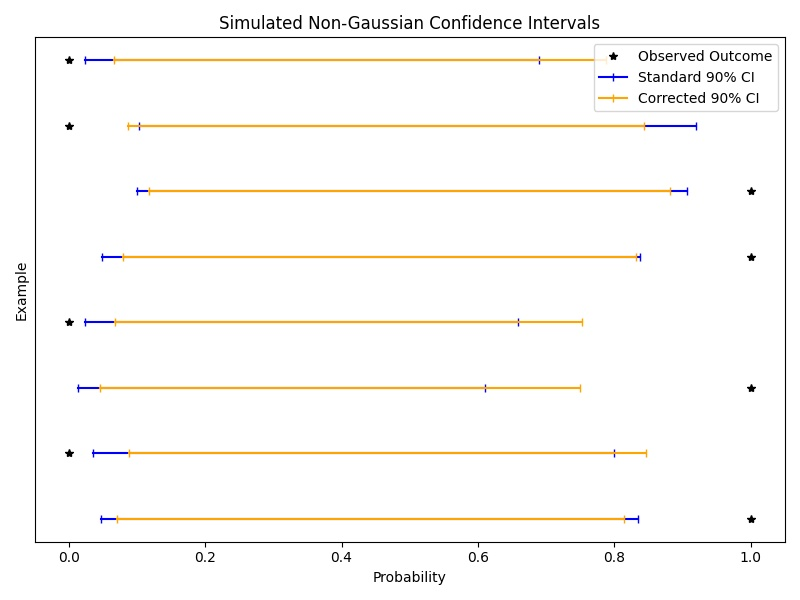
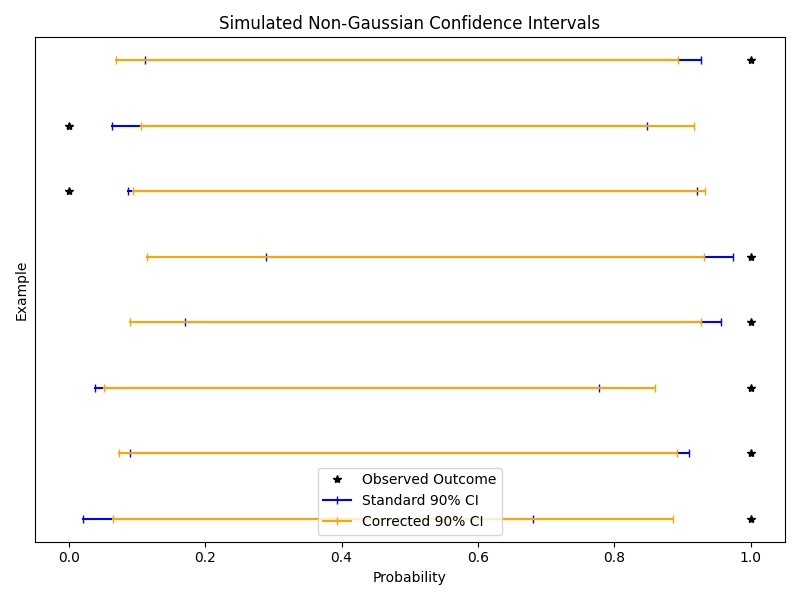
latent variables done

diff --git a/run_experiments.py b/run_experiments.py
@@ -1,7 +1,7 @@
 import torch
 import numpy as np
 import matplotlib.pyplot as plt
-from helpers.simulation import simulate_gaussian, normalizing_flow
+from helpers.simulation import simulate_gaussian, normalizing_flow, simulate_latent_gaussian
 from helpers.plotting import plot_p_vals, plot_conf_ints, test_normalizing_flow
 from helpers.models_test import test_baseline, test_sloe
 import warnings
@@ -18,36 +18,51 @@ gamma = np.sqrt(5)
 
 ci = 90
 
-# TEST 1: Simulated Gaussian data
-print("TEST 1: Simulated Gaussian data")
+# # TEST 1: Simulated Gaussian data
+# print("TEST 1: Simulated Gaussian data")
 
-# Simulate Gaussian data
-X_train, X_test, y_train, y_test = simulate_gaussian(ratio, n, p, gamma)
-#y_train = torch.round(torch.rand(y_train.shape[0]))
-#y_test = torch.round(torch.rand(y_test.shape[0]))
+# # Simulate Gaussian data
+# X_train, X_test, y_train, y_test = simulate_gaussian(ratio, n, p, gamma)
+
+# # Test with baseline model
+# p_vals_baseline, pred_ints_baseline = test_baseline(X_train.numpy(), y_train.numpy(), X_test.numpy(), ci=ci)
+
+# # Test with SLOE Model
+# p_vals_sloe, pred_ints_sloe = test_sloe(X_train.numpy(), y_train.numpy(), X_test.numpy(), ci=ci)
+
+# # Generate plots
+# plot_p_vals(p_vals_baseline, p_vals_sloe, 'Simulated Gaussian', 'gaussian')
+# plot_conf_ints(pred_ints_baseline, pred_ints_sloe, X_test.numpy(), y_test.numpy(), 'Simulated Gaussian', 'gaussian', ci=ci)
+
+# # TEST 2: Simulated Non-Gaussian data
+# print('TEST 2: Simulated Non-Gaussian data')
+
+# # Simulate Non-Gaussian data with normalizing flow
+# X_train_flow, X_test_flow = normalizing_flow(X_train, X_test)
+
+# # Test with baseline model
+# p_vals_baseline, pred_ints_baseline = test_baseline(X_train_flow.numpy(), y_train.numpy(), X_test_flow.numpy(), ci=ci)
+
+# # Test with SLOE Model
+# p_vals_sloe, pred_ints_sloe = test_sloe(X_train_flow.numpy(), y_train.numpy(), X_test_flow.numpy(), ci=ci)
+
+# # Generate plots
+# plot_p_vals(p_vals_baseline, p_vals_sloe, 'Simulated Non-Gaussian', 'non_gaussian')
+# plot_conf_ints(pred_ints_baseline, pred_ints_sloe, X_test_flow.numpy(), y_test.numpy(), 'Simulated Non-Gaussian', 'non_gaussian', ci=ci)
+
+# TEST 3: Latent Variables
+print('TEST 3: Latent Variables')
+latent_ratio = 0.8
+
+# We will calculate the covariates as linear functions of 3 Gaussian latent variables
+X_train_latent, X_test_latent, y_train_latent, y_test_latent = simulate_latent_gaussian(ratio, n, p, gamma, latent_ratio)
 
 # Test with baseline model
-p_vals_baseline, pred_ints_baseline = test_baseline(X_train.numpy(), y_train.numpy(), X_test.numpy(), ci=ci)
+p_vals_baseline, pred_ints_baseline = test_baseline(X_train_latent.numpy(), y_train_latent.numpy(), X_test_latent.numpy(), ci=ci)
 
 # Test with SLOE Model
-p_vals_sloe, pred_ints_sloe = test_sloe(X_train.numpy(), y_train.numpy(), X_test.numpy(), ci=ci)
+p_vals_sloe, pred_ints_sloe = test_sloe(X_train_latent.numpy(), y_train_latent.numpy(), X_test_latent.numpy(), ci=ci)
 
 # Generate plots
-plot_p_vals(p_vals_baseline, p_vals_sloe, 'Simulated Gaussian', 'gaussian')
-plot_conf_ints(pred_ints_baseline, pred_ints_sloe, X_test.numpy(), y_test.numpy(), 'Simulated Gaussian', 'gaussian', ci=ci)
-
-# TEST 2: Simulated Non-Gaussian data
-print('TEST 2: Simulated Non-Gaussian data')
-
-# Simulate Non-Gaussian data with normalizing flow
-X_train_flow, X_test_flow = normalizing_flow(X_train, X_test)
-
-# Test with baseline model
-p_vals_baseline, pred_ints_baseline = test_baseline(X_train_flow.numpy(), y_train.numpy(), X_test_flow.numpy(), ci=ci)
-
-# Test with SLOE Model
-p_vals_sloe, pred_ints_sloe = test_sloe(X_train_flow.numpy(), y_train.numpy(), X_test_flow.numpy(), ci=ci)
-
-# Generate plots
-plot_p_vals(p_vals_baseline, p_vals_sloe, 'Simulated Non-Gaussian', 'non_gaussian')
-plot_conf_ints(pred_ints_baseline, pred_ints_sloe, X_test_flow.numpy(), y_test.numpy(), 'Simulated Non-Gaussian', 'non_gaussian', ci=ci)
+plot_p_vals(p_vals_baseline, p_vals_sloe, 'Simulated Latent', 'latent')
+plot_conf_ints(pred_ints_baseline, pred_ints_sloe, X_test_latent.numpy(), y_test_latent.numpy(), 'Simulated Latent', 'latent', ci=ci)

diff --git a/helpers/simulation.py b/helpers/simulation.py
@@ -1,6 +1,7 @@
 import torch
 import numpy as np
 from torch.distributions.multivariate_normal import MultivariateNormal
+from torch.distributions import Normal
 from sklearn.model_selection import train_test_split
 from sklearn.preprocessing import StandardScaler
 
@@ -54,3 +55,46 @@ def normalizing_flow(X_train, X_test):
     X_test_flow = torch.from_numpy(scaler.fit_transform(X_test_flow.numpy()))
 
     return X_train_flow, X_test_flow
+
+def simulate_latent_gaussian(ratio, n, p, gamma, latent_ratio):
+    num_latent = int(np.rint(latent_ratio * p))
+    num_not_latent = p - num_latent
+
+    # Generate the latent variable as a Gaussian
+    z_dist = Normal(loc = 0, scale = 1)
+    Z = z_dist.sample([n,])
+    
+    # Generate covariates as a noisy linear function of Z
+    X_latent = torch.zeros(n, num_latent)
+    for col in range(num_latent):
+        a = torch.rand(1)
+        b = torch.rand(n)
+        X_latent[:, col] = a * Z + b
+
+    # Generate remaining covariates as jointly Gaussian
+    mu = torch.zeros(num_not_latent)
+    x = torch.randn(num_not_latent,n)*0.009
+    cov = torch.cov(x)
+
+    x_dist = MultivariateNormal(loc = mu, covariance_matrix = cov)
+    X_not_latent = x_dist.sample([n,])
+
+    # Concatenate
+    X = torch.cat((X_latent, X_not_latent), 1)
+    print('Correlation Matrix for X:')
+    print(torch.corrcoef(X))
+    
+    # Normalize X
+    scaler = StandardScaler()
+    X = torch.from_numpy(scaler.fit_transform(X.numpy()))
+
+    beta = torch.zeros(p)
+    beta[:p//8] = 2*gamma/np.sqrt(p)
+    beta[p//8:p//4] = -2*gamma/np.sqrt(p)
+
+    proba = torch.sigmoid(torch.matmul(X,beta))
+    y = torch.bernoulli(proba)
+
+    X_train, X_test, y_train, y_test = train_test_split(X, y, shuffle=True, train_size=0.8, random_state=0)
+
+    return X_train, X_test, y_train, y_test
